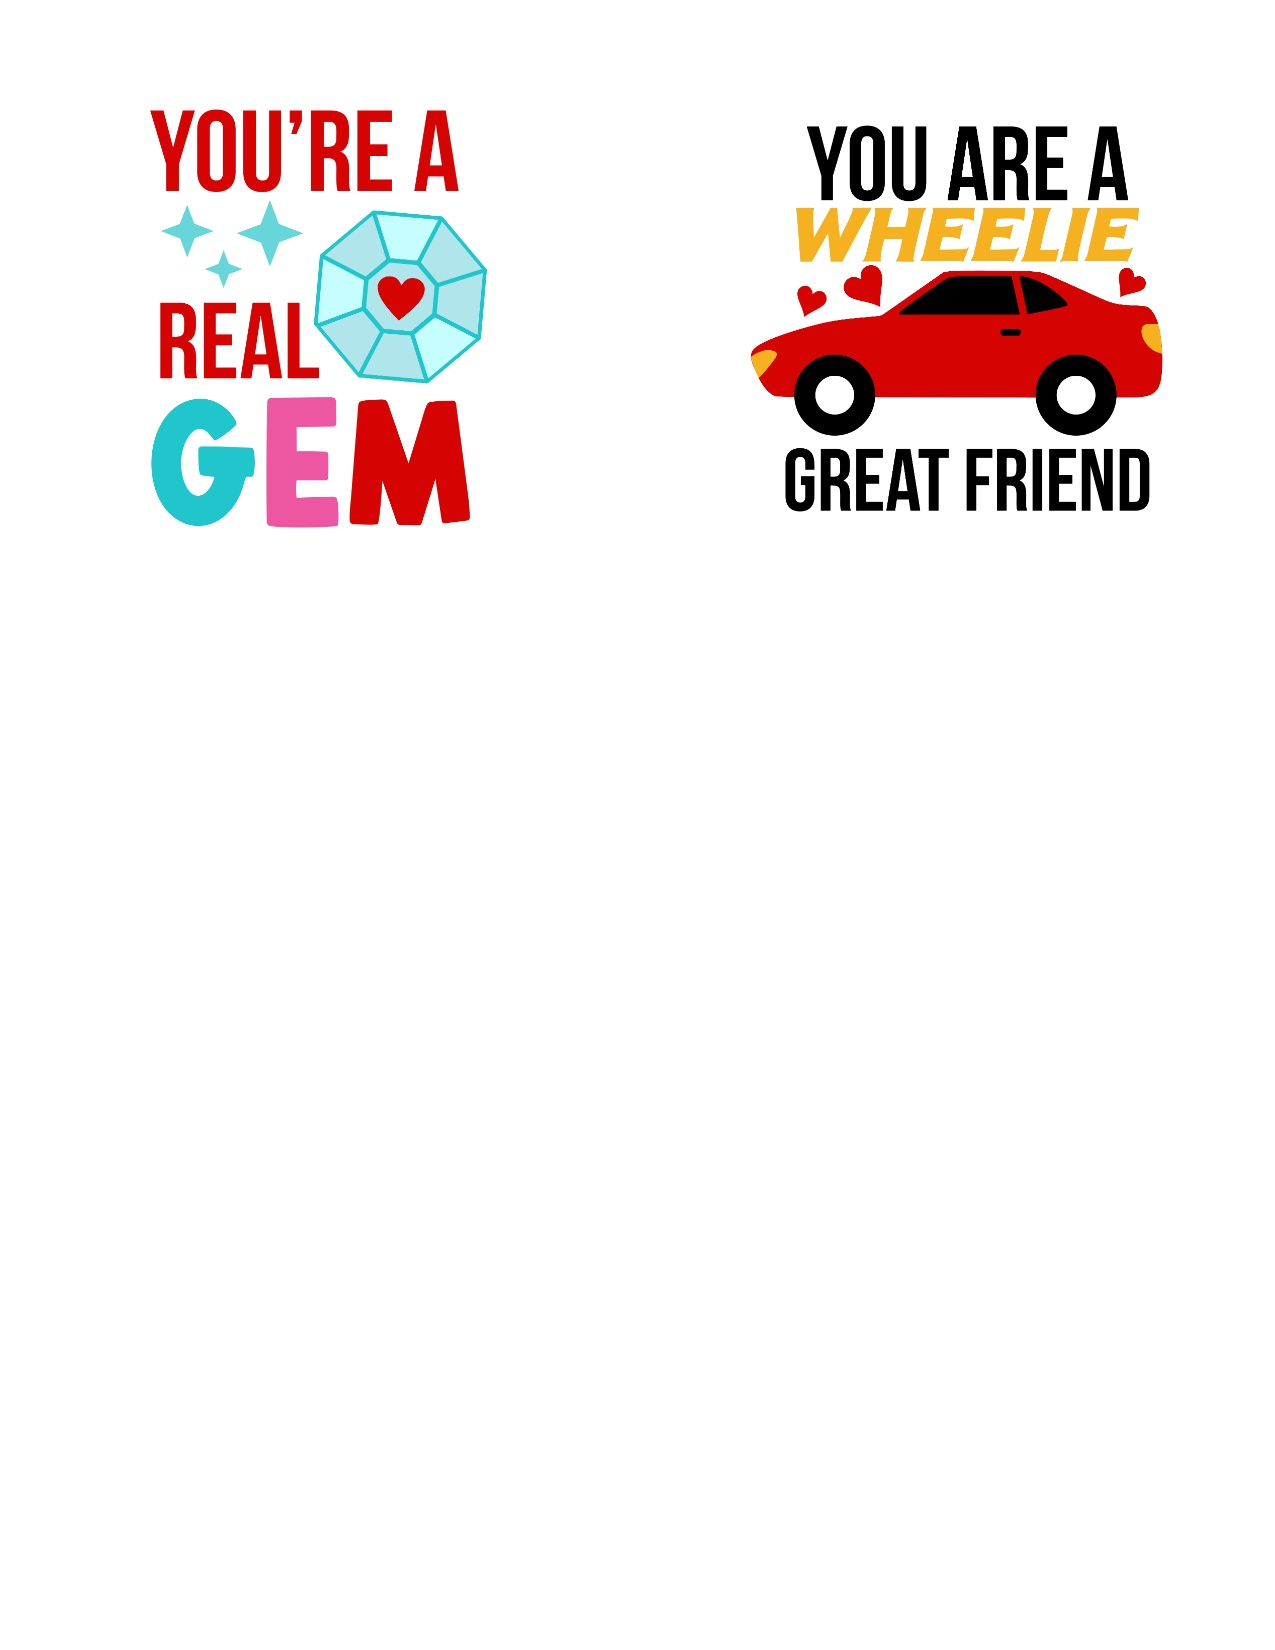
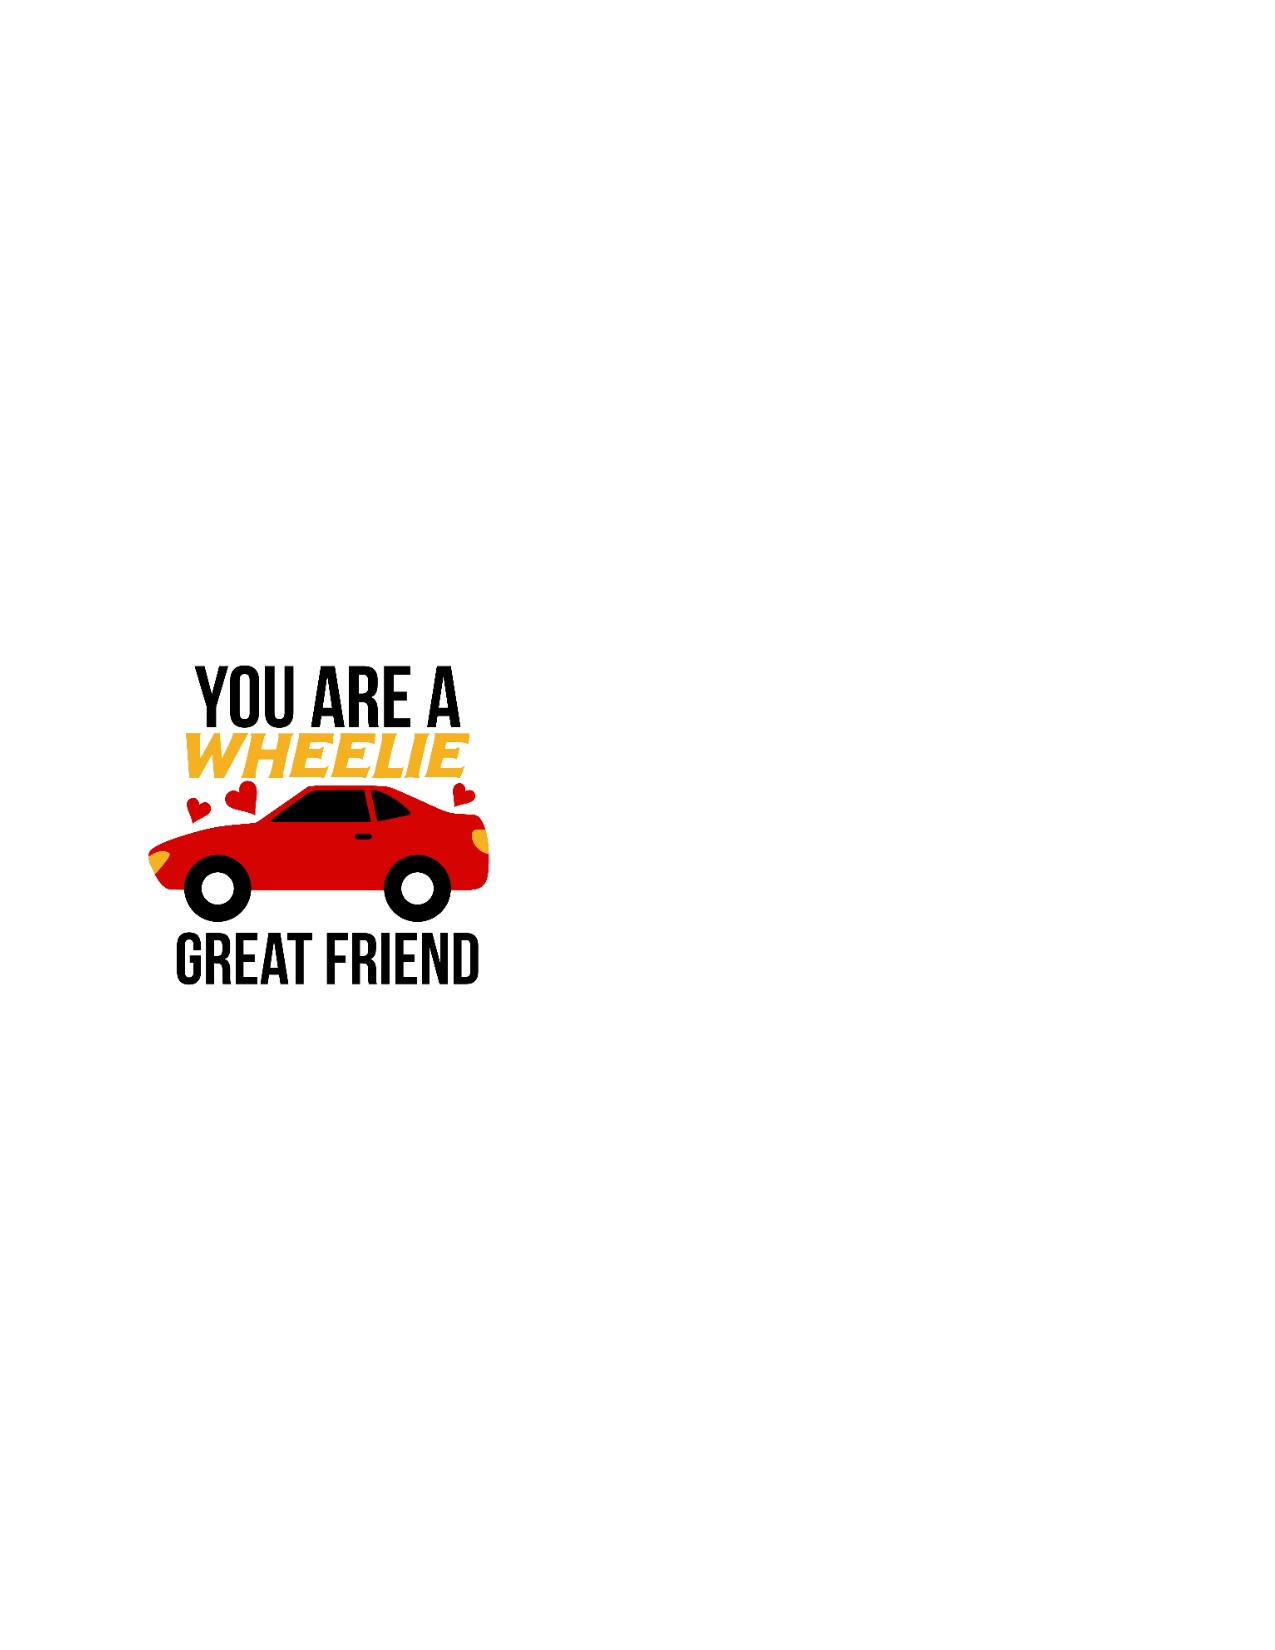
Stiker printing perfect

Changed region(s): [[0.5812, 0.0618, 0.9176, 0.3091], [0.1224, 0.0618, 0.3976, 0.34], [0.1224, 0.4018, 0.3976, 0.6182]]

diff --git a/smartwish-frontend/src/app/stickers/page.tsx b/smartwish-frontend/src/app/stickers/page.tsx
@@ -448,7 +448,8 @@ export default function StickersPage() {
     const IMAGE_WIDTH = 1275; // pixels
     const IMAGE_HEIGHT = 1650; // pixels
     const DPI = 150;
-    const CIRCLE_DIAMETER_PX = 453; // Circle bounding box is 453 × 453 px
+    // Sticker size: 2.5 inches at 150 DPI = 375px
+    const CIRCLE_DIAMETER_PX = 375; // 2.5 in × 150 dpi = 375 px
     const CIRCLE_RADIUS_PX = CIRCLE_DIAMETER_PX / 2;
 
     // Exact center coordinates for each circle (in pixels, top-left origin)
@@ -494,7 +495,7 @@ export default function StickersPage() {
           // Calculate aspect ratio
           const imgAspect = img.width / img.height;
 
-          // Calculate scale factor to fit within 453px circle
+          // Calculate scale factor to fit within 375px circle (2.5 inches at 150 DPI)
           // Both width and height must fit within the circle diameter
           // Image should be centered at (centerX, centerY)
           let drawWidth: number;
@@ -503,15 +504,15 @@ export default function StickersPage() {
           let drawY: number;
 
           if (imgAspect > 1) {
-            // Image is wider than tall - fit to width (453px) to ensure it fits
-            // This ensures width = 453px and height < 453px
+            // Image is wider than tall - fit to width (375px) to ensure it fits
+            // This ensures width = 375px and height < 375px
             drawWidth = CIRCLE_DIAMETER_PX;
             drawHeight = CIRCLE_DIAMETER_PX / imgAspect;
             drawX = centerX - drawWidth / 2; // Center horizontally at circle center
             drawY = centerY - drawHeight / 2; // Center vertically at circle center
           } else {
-            // Image is taller than wide or square - fit to height (453px) to ensure it fits
-            // This ensures height = 453px and width < 453px
+            // Image is taller than wide or square - fit to height (375px) to ensure it fits
+            // This ensures height = 375px and width < 375px
             drawHeight = CIRCLE_DIAMETER_PX;
             drawWidth = CIRCLE_DIAMETER_PX * imgAspect;
             drawX = centerX - drawWidth / 2; // Center horizontally at circle center
